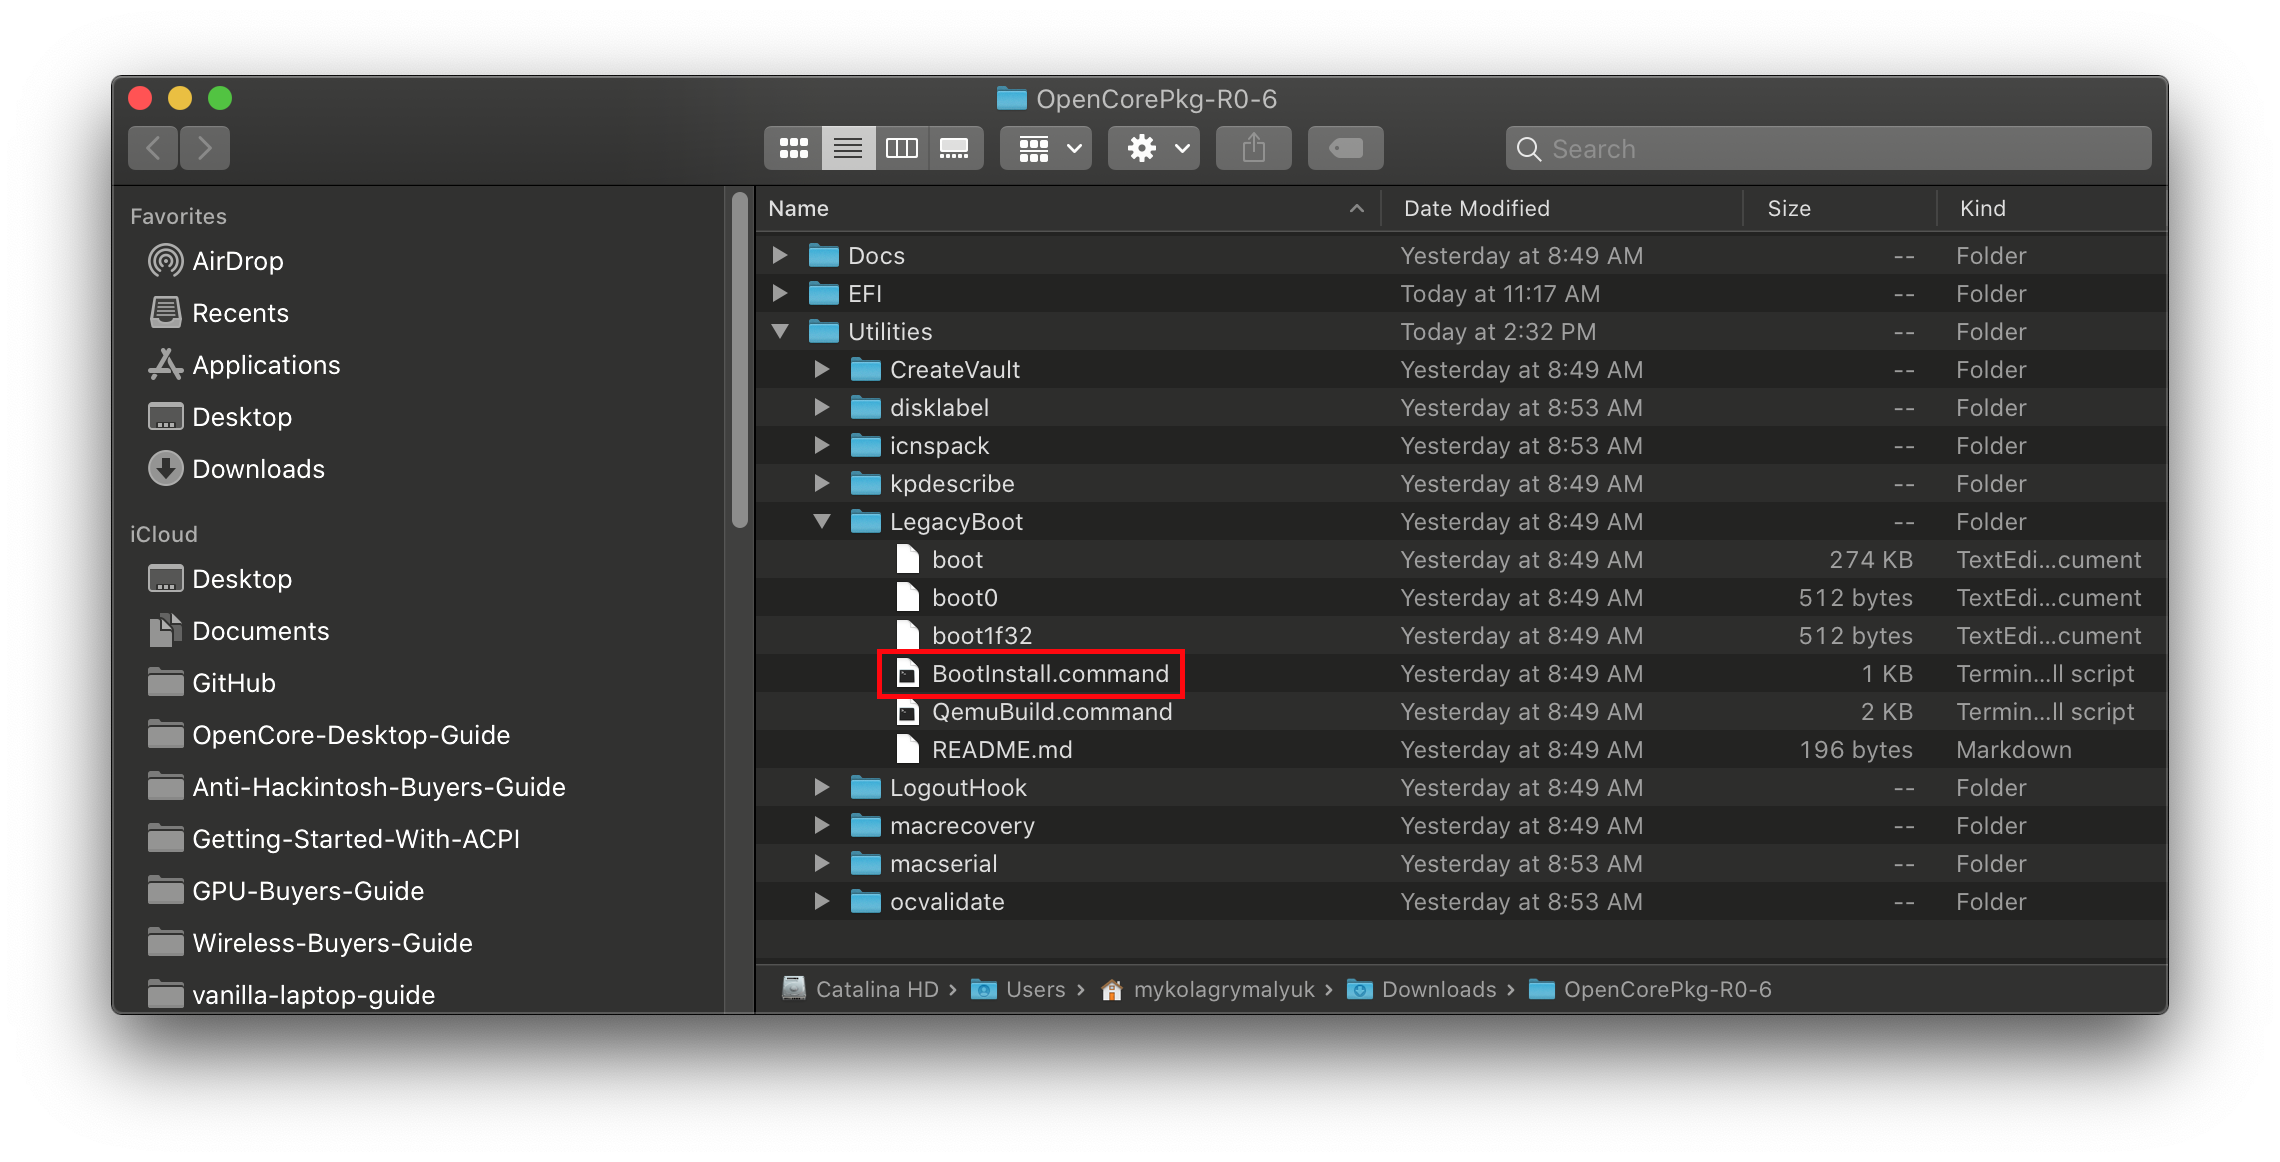
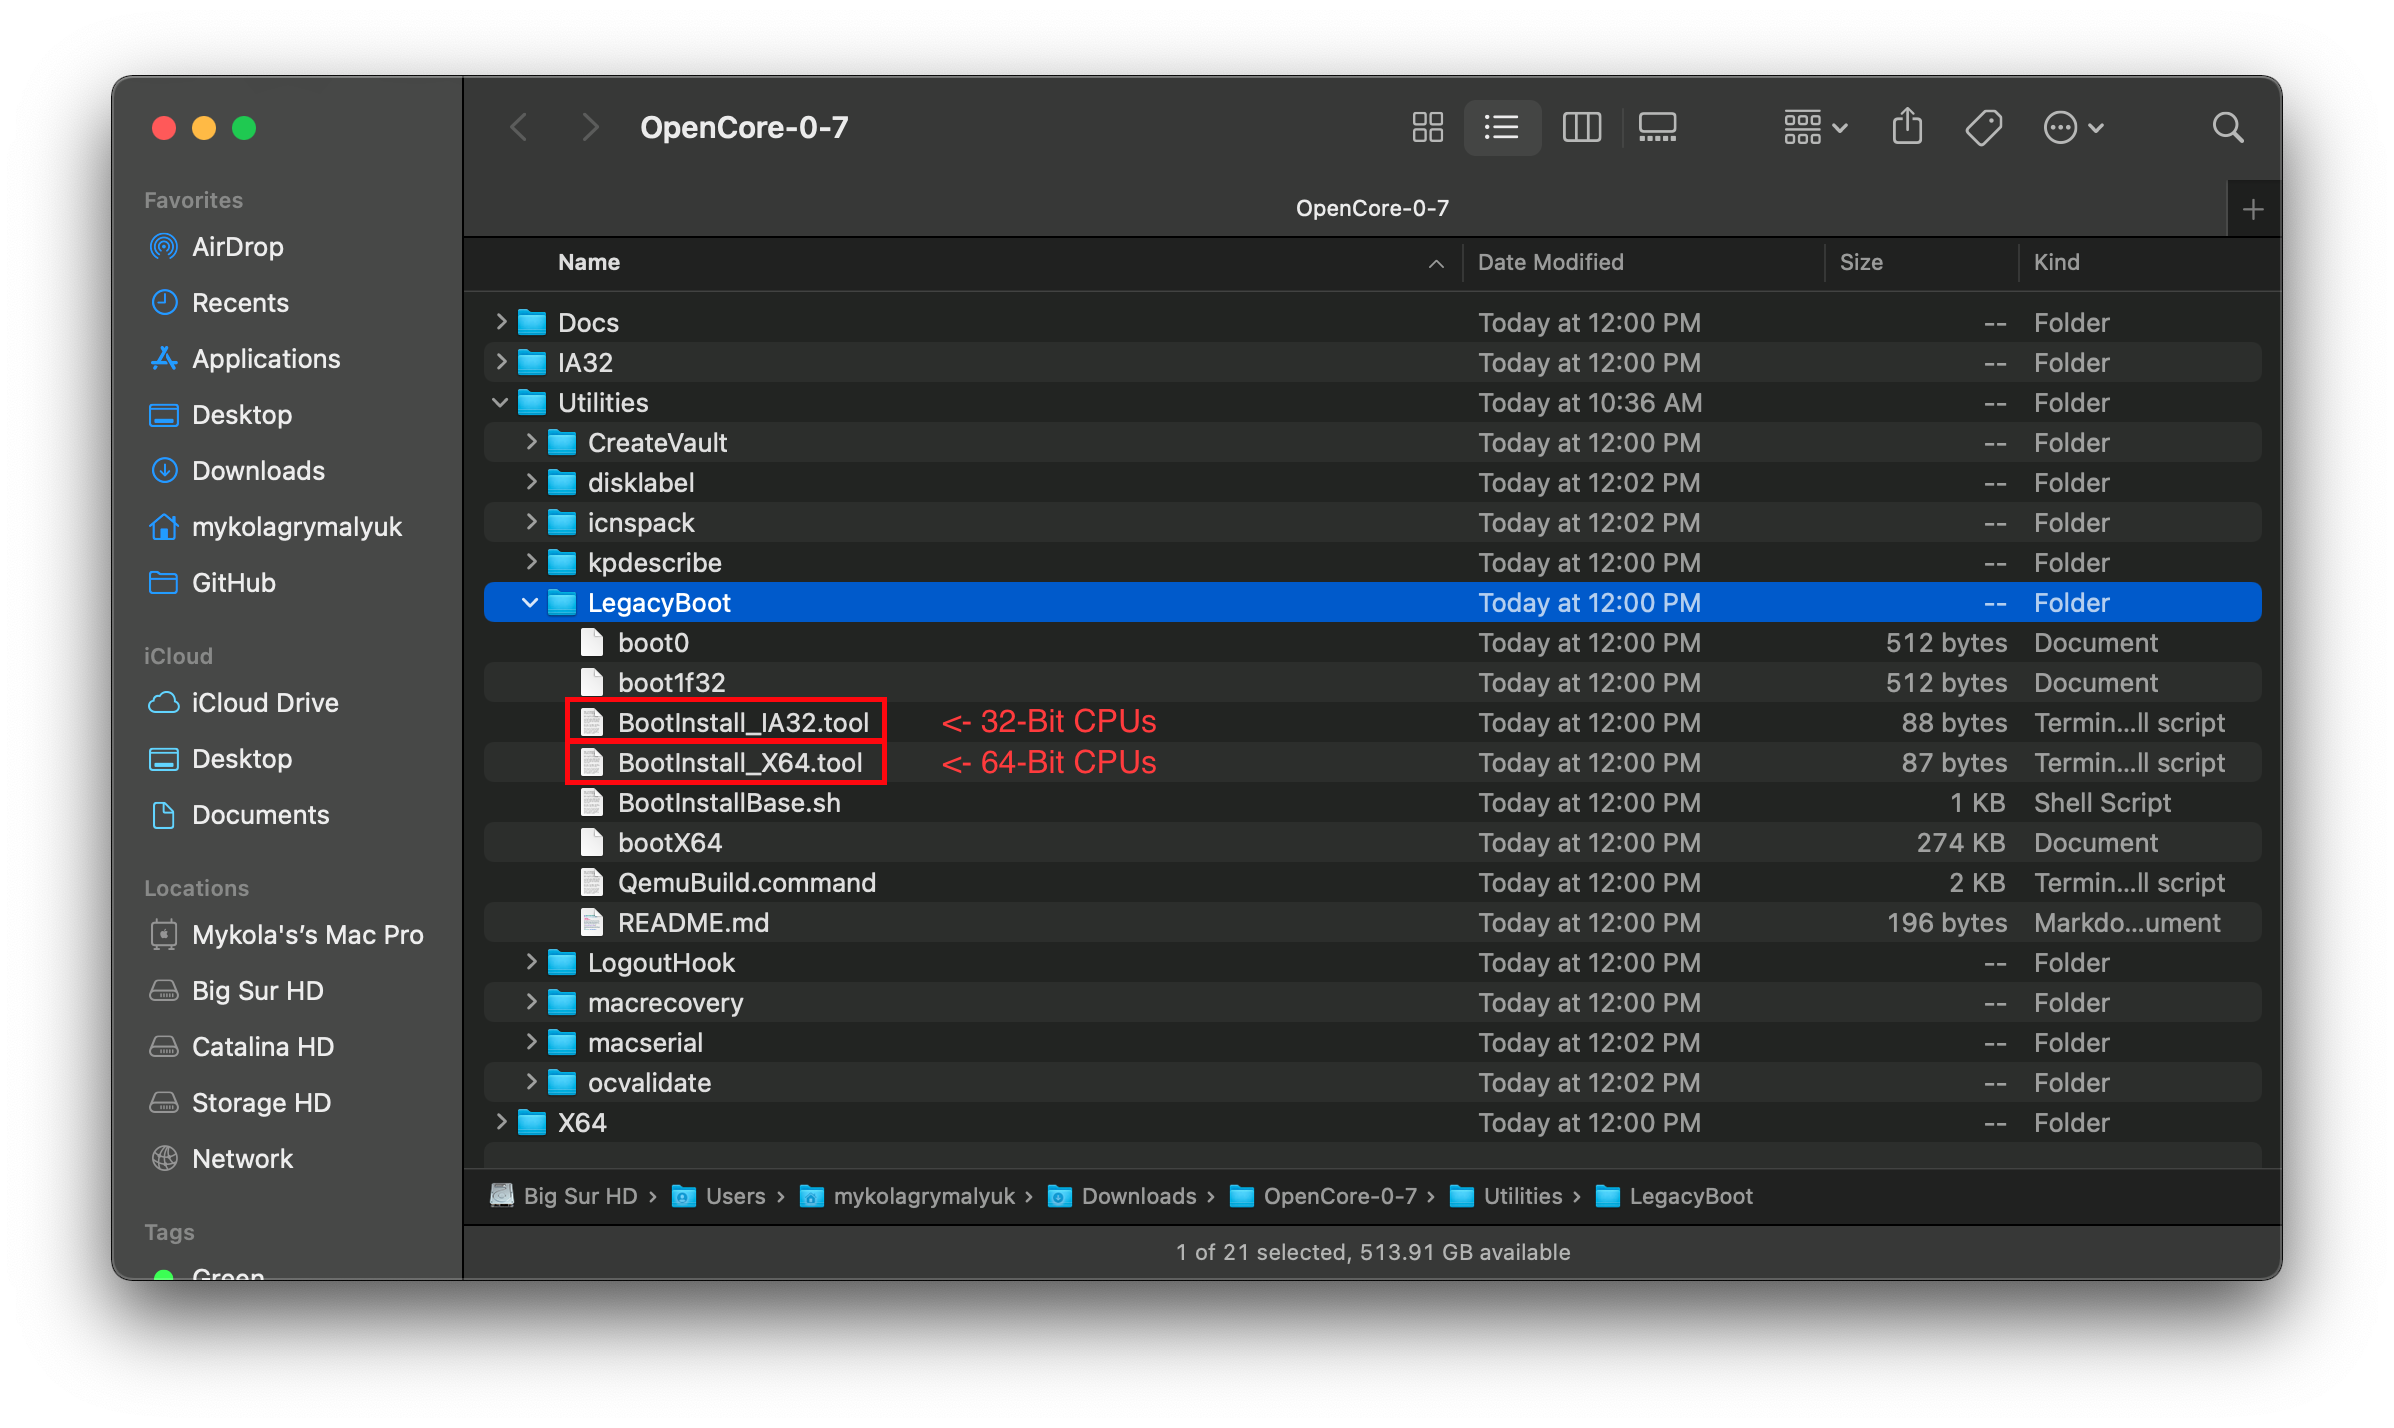
Expand DuetPkg

Changed region(s): [[0.0311, 0.031, 0.9654, 0.9604], [0.1868, 0.1549, 0.2803, 0.1859]]

diff --git a/.vuepress/config.js b/.vuepress/config.js
@@ -273,7 +273,6 @@ module.exports = {
             collapsable: false,
 			sidebarDepth: 2,
             children: [
-                '/extras/legacy',
                 '/extras/gpu-patches',
                 '/extras/kaslr-fix',
                 '/extras/spoof',

diff --git a/installer-guide/winblows-install.md b/installer-guide/winblows-install.md
@@ -25,7 +25,10 @@ This will download the RecoveryHDMetaDmg.pkg to `\gibmacos-master\macOS Download
 
 ![](../images/installer-guide/winblows-install-md/gib-done.png)
 
-## Making the installer
+## Making the installer: UEFI
+
+* Note: This is meant for systems supporting UEFI, if your machine is 2011 or older it's unlikely to support UEFI.
+  * Please verify either with AIDA64 or your OEM's support page.
 
 Next open `MakeInstall.bat` as Admin and select your drive with option O for OpenCore( ex: 1O).
 
@@ -42,6 +45,84 @@ MakeInstall will finish up by installing OpenCore to your USB's EFI System Parti
 ![](../images/installer-guide/winblows-install-md/make-install-done.png)
 
 ![](../images/installer-guide/winblows-install-md/EFI-base.png)
+
+## Making the installer: Legacy
+
+* Note: This is meant for systems that do not support, if your machine is 2011 or older it's unlikely to support UEFI.
+  * Please verify either with AIDA64 or your OEM's support page.
+
+::: details Legacy Setup
+
+To start, you'll need the following:
+
+* [7-Zip](https://www.7-zip.org)
+* [BOOTICE](https://www.majorgeeks.com/files/details/bootice_64_bit.html)
+* [OpenCorePkg](https://github.com/acidanthera/OpenCorePkg/releases)
+
+Press Windows + R and enter `diskpart`.
+
+Now run the following:
+
+```sh
+# List available disks
+list disk
+# Select your disk(ie. disk 1)
+select disk 1
+# Format the drive
+clean
+# Convert to GPT
+# Due to an odd bug with BOOTICE and DuetPkg, MBR disks will fail to boot
+convert gpt
+# Create a new partition
+create partition primary
+# Select your partition
+# Running clean ensures we only have 1 partition so it will be "partition 1"
+select partition 1
+# Format the drive as FAT32
+format fs=fat32 quick
+# Assign a drive letter(ie. Drive E, ensure it's not currently in use)
+ASSIGN LETTER=E
+```
+
+Next, open File Explorer and head to this newly formatted and create a folder called `com.apple.recovery.boot` on the root of the drive.
+
+Again in File Explorer, find the .pkg downloaded by gibMacOS under macOS Downloads in the gibMacOS folder. Open the .pkg by right clicking and going under 7-Zip -> Open Archive:
+
+![](../images/installer-guide/winblows-install-md/7zipWinders.jpg)
+
+Open RecoveryHDMeta.dmg (or similar named dmg) then open the folder contained, You should see BaseSystem.dmg and BaseSystem.chunklist. Drag/copy these to the com.apple.recovery.boot folder on your USB:
+
+![](../images/installer-guide/winblows-install-md/BaseSystemWinders.jpg)
+
+Now grab OpenCorePkg you downloaded earlier and open it:
+
+![](../images/installer-guide/winblows-install-md/base-oc-folder.png)
+
+Here we see both IA32(32 Bit CPUs) and X64(64 Bit CPUs) folders, choose the one that's most appropriate to your hardware and open it. Next grab the EFI folder inside and place this on the root of the USB drive along side com.apple.recovery.boot. Once done it should look like this:
+
+![](../images/installer-guide/winblows-install-md/com-efi-done.png)
+
+Now finally, open up BOOTICE and ensure you've selected the right drive.
+
+![](../images/installer-guide/winblows-install-md/bootice.png)
+
+Next, enter "Process MBR" then select "Restore MBR" and select the **boot0** file from `Utilities/LegacyBoot/` in OpenCorePkg:
+
+| Restore MBR | Restore boot0 file |
+| :--- | :--- |
+| ![](../images/installer-guide/winblows-install-md/restore-mbr.png) | ![](../images/installer-guide/winblows-install-md/restore-mbr-file.png) |
+
+Then head back to the main screen and select "Process PBR" then "Restore PBR". From here, choose the **Boot1f32** file from `Utilities/LegacyBoot/` in OpenCorePkg:
+
+| Restore PBR | Restore boot1f32 file |
+| :--- | :--- |
+| ![](../images/installer-guide/winblows-install-md/restore-pbr.png) | ![](../images/installer-guide/winblows-install-md/restore-pbr-file.png) |
+
+Once this is done, head back to your USB and do 1 final thing. Grab either the **bootx64**(64 Bit CPUs) or **bootia32**(32 Bit CPUs) file from `Utilities/LegacyBoot/` and place it on the root of your drive:
+
+![](../images/installer-guide/winblows-install-md/final-boot-file.png)
+
+:::
 
 ## Downloading macOS: Legacy OS
 
@@ -100,13 +181,72 @@ This will take some time, however once you're finished you should get either Bas
 
 Now with our installer downloaded, we'll next want to format out USB.
 
-Open Disk Management and format your USB drive as FAT32:
+Press Windows + R and enter `diskpart`.
 
-![](../images/installer-guide/winblows-install-md/DiskManagement.jpg)
+Now run the following:
+
+```sh
+# List available disks
+list disk
+# Select your disk(ie. disk 1)
+select disk 1
+# Format the drive
+clean
+# Convert to GPT
+# Due to an odd bug with BOOTICE and DuetPkg, MBR disks will fail to boot
+convert gpt
+# Create a new partition
+create partition primary
+# Select your partition
+# Running clean ensures we only have 1 partition so it will be "partition 1"
+select partition 1
+# Format the drive as FAT32
+format fs=fat32 quick
+# Assign a drive letter(ie. Drive E, ensure it's not currently in use)
+ASSIGN LETTER=E
+```
 
 Next, go to the root of this USB drive and create a folder called `com.apple.recovery.boot`. Then move the downloaded BaseSystem or RecoveryImage files. Please ensure you copy over both the .dmg and .chunklist files to this folder:
 
 ![](../images/installer-guide/winblows-install-md/com-recovery.png)
+
+Now grab OpenCorePkg you downloaded earlier and open it:
+
+![](../images/installer-guide/winblows-install-md/base-oc-folder.png)
+
+Here we see both IA32(32 Bit CPUs) and X64(64 Bit CPUs) folders, choose the one that's most appropriate to your hardware and open it. Next grab the EFI folder inside and place this on the root of the USB drive along side com.apple.recovery.boot. Once done it should look like this:
+
+![](../images/installer-guide/winblows-install-md/com-efi-done.png)
+
+::: details Legacy Install Setup
+
+If your firmware does not support UEFI, see below instructions:
+
+To start, you'll need the following:
+
+* [7-Zip](https://www.7-zip.org)
+* [BOOTICE](https://www.majorgeeks.com/files/details/bootice_64_bit.html)
+* [OpenCorePkg](https://github.com/acidanthera/OpenCorePkg/releases)
+
+Next, open up BOOTICE and ensure you've selected the right drive.
+
+![](../images/installer-guide/winblows-install-md/bootice.png)
+
+Next, enter "Process MBR" then select "Restore MBR" and select the **boot0** file from `Utilities/LegacyBoot/` in OpenCorePkg:
+
+| Restore MBR | Restore boot0 file |
+| :--- | :--- |
+| ![](../images/installer-guide/winblows-install-md/restore-mbr.png) | ![](../images/installer-guide/winblows-install-md/restore-mbr-file.png) |
+
+Then head back to the main screen and select "Process PBR" then "Restore PBR". From here, choose the **Boot1f32** file from `Utilities/LegacyBoot/` in OpenCorePkg:
+
+| Restore PBR | Restore boot1f32 file |
+| :--- | :--- |
+| ![](../images/installer-guide/winblows-install-md/restore-pbr.png) | ![](../images/installer-guide/winblows-install-md/restore-pbr-file.png) |
+
+Once this is done, head back to your USB and do 1 final thing. Grab either the **bootx64**(64 Bit CPUs) or **bootia32**(32 Bit CPUs) file from `Utilities/LegacyBoot/` and place it on the root of your drive:
+
+![](../images/installer-guide/winblows-install-md/final-boot-file.png)
 
 :::
 

diff --git a/installer-guide/mac-install.md b/installer-guide/mac-install.md
@@ -7,13 +7,6 @@ While you don't need a fresh install of macOS to use OpenCore, some users prefer
 
 To start we'll want to grab ourselves a copy of macOS, you can skip this and head to formatting the USB if you're just making a bootable OpenCore stick and not an installer. For everyone else, you can either download macOS from the App Store or with gibMacOS
 
-**Note for legacy users**
-
-1. If your hardware does not support UEFI, follow the [Legacy Install](../extras/legacy.md) section
-2. Once completed, continue the guide at the **[Downloading macOS](#downloading-macos)** section
-
-For those needing macOS versions no longer hosted on Apple's catalog(ie. Sierra and older), follow the [Legacy macOS install](https://github.com/dortania/OpenCore-Install-Guide/blob/master/installer-guide/legacy-mac-install.md) guide
-
 ## Downloading macOS: Modern OS
 
 * This method allows you to download macOS 10.13 and newer, for 10.12 and older see [Downloading macOS: Legacy OS](#downloading-macos-legacy-os)
@@ -304,6 +297,41 @@ sudo /Applications/Install\ OS\ X\ Yosemite.app/Contents/Resources/createinstall
 # Mavericks
 sudo /Applications/Install\ OS\ X\ Mavericks.app/Contents/Resources/createinstallmedia --volume /Volumes/MyVolume --applicationpath /Applications/Install\ OS\ X\ Mavericks.app --nointeraction
 ```
+
+:::
+
+## Legacy Setup
+
+For systems not supporting UEFI boot, see below:
+
+::: details Setting up Legacy Boot
+
+To start, you need the following:
+
+* BootInstall_IA32.tool or BootInstall_X64.tool
+  * This can be found in OpenCorePkg under `/Utilties/LegacyBoot/`
+* Install USB(Created above)
+
+Within your OpenCore build folder, navigate to `Utilities/LegacyBoot`. Here you'll find a file called `BootInstall.command`. What this does is install DuetPkg to your desired drive.
+
+![BootInstall Location](../images/extras/legacy-md/download.png)
+
+Now run this tool in terminal **with sudo**(This tool will likely fail otherwise):
+
+```sh
+# Replace X64 with IA32 if you have a 32-Bit CPU
+sudo ~/Downloads/OpenCore/Utilities/legacyBoot/BootInstall_X64.tool
+```
+
+![Disk Selection/writing new MBR](../images/extras/legacy-md/boot-disk.png)
+
+This will give you a list of available disks, choose yours and you will be prompted to write a new MBR. Choose yes`[y]` and you'll be finished.
+
+![Finished Installer](../images/extras/legacy-md/boot-done.png)
+
+![Base EFI](../images/extras/legacy-md/efi-base.png)
+
+This will provide you with an EFI partition with either a **bootia32** or **bootx64** file
 
 :::
 

diff --git a/extras/legacy.md b/extras/legacy.md
@@ -1,39 +1,3 @@
 # Legacy Install
 
-* Supported version: 0.6.2
-
-Wanna try OpenCore but can't boot UEFI based sources? Well don't fret, there's hope for you! OpenCore supports DuetPkg which emulates a UEFI environment for legacy systems.
-
-To start, you need the following:
-
-* BootInstall.command
-* Install source(MacOS Journaled + GUID, size of USB depends on the version of macOS. 16GB recommended for Catalina)
-
-![BootInstall Location](../images/extras/legacy-md/download.png)
-
-Within your OpenCore build folder, navigate to `Utilities/LegacyBoot`. Here you'll find a file called `BootInstall.command`. What this does is install DuetPkg to your desired drive.
-
-![](../images/extras/legacy-md/run-boot.png)
-
-Now you'll want to run `BootInstall.command`, do note that you may need to run as root(`sudo`) for this to work correctly on newer versions of macOS.
-
-```
-sudo Utilities/LegacyBoot/BootInstall.command
-```
-
-![Disk Selection/writing new MBR](../images/extras/legacy-md/boot-disk.png)
-
-This will give you a list of available disks, choose yours and you will be prompted to write a new MBR. Choose yes`[y]` and you'll be finished.
-
-![Finished Installer](../images/extras/legacy-md/boot-done.png)
-
-![Base EFI](../images/extras/legacy-md/efi-base.png)
-
-This will provide you with an EFI partition with a `boot` file, this is where we'll add our OpenCore EFI.
-
-**Note**: The firmware drivers used for legacy users differ slightly:
-
-* [OpenUsbKbDxe.efi](https://github.com/acidanthera/OpenCorePkg/releases)
-  * For picker support in the OpenCore menu
-* [HfsPlusLegacy.efi](https://github.com/acidanthera/OcBinaryData/blob/master/Drivers/HfsPlusLegacy.efi)
-  * Needed for seeing HFS drives like macOS installers, the legacy variant is required for Sandy Bridge and older due to missing RDRAND instruction support
+Guide has been moved into respective install guides: [Installer Guides](../installer-guide/README.md)

diff --git a/installer-guide/README.md b/installer-guide/README.md
@@ -16,7 +16,10 @@ Depending on which OS you're on, see your specific section on making the USB:
 
 * [macOS users](../installer-guide/mac-install.md)
   * Supports OS X 10.4 to current
+  * Supports both legacy and UEFI installs
 * [Windows users](../installer-guide/winblows-install.md)
   * Supports OS X 10.7 to current
-* [Linux users](../installer-guide/linux-install.md)
+  * Supports both legacy and UEFI installs
+* [Linux users(UEFI)](../installer-guide/linux-install.md)
   * Supports OS X 10.7 to current
+  * Meant for machines supporting UEFI Boot
